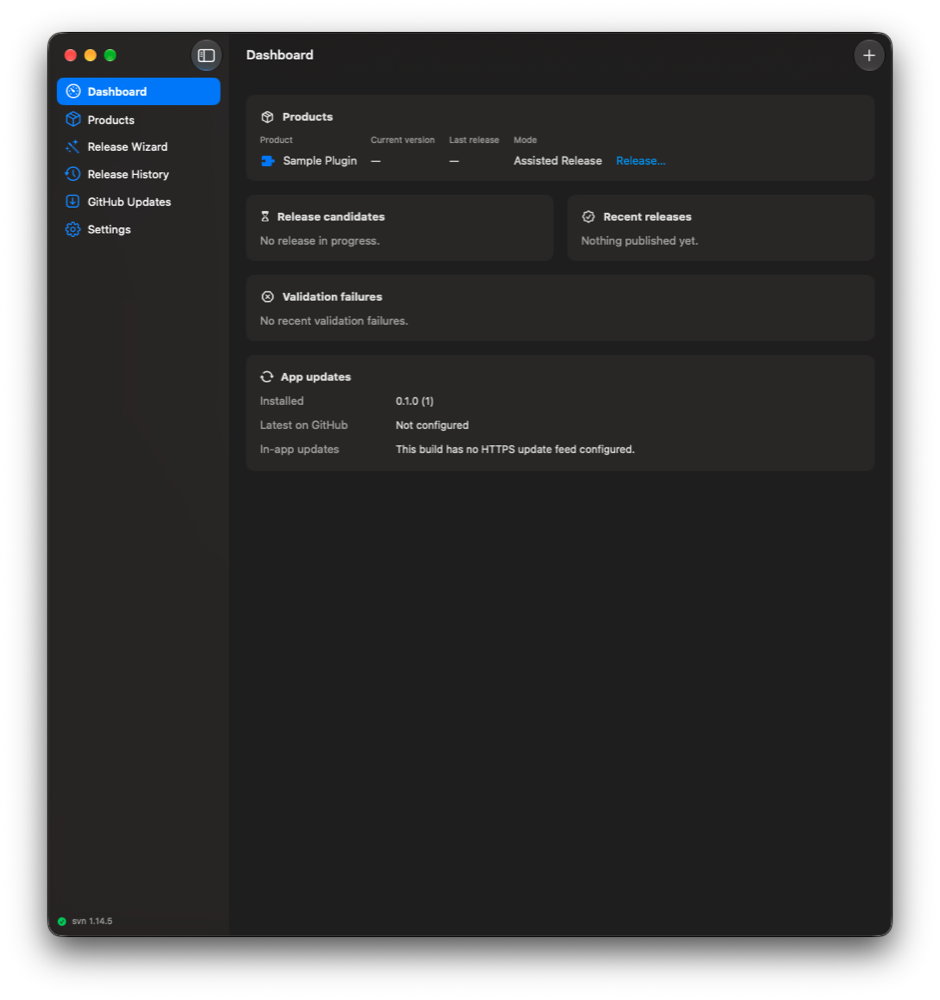
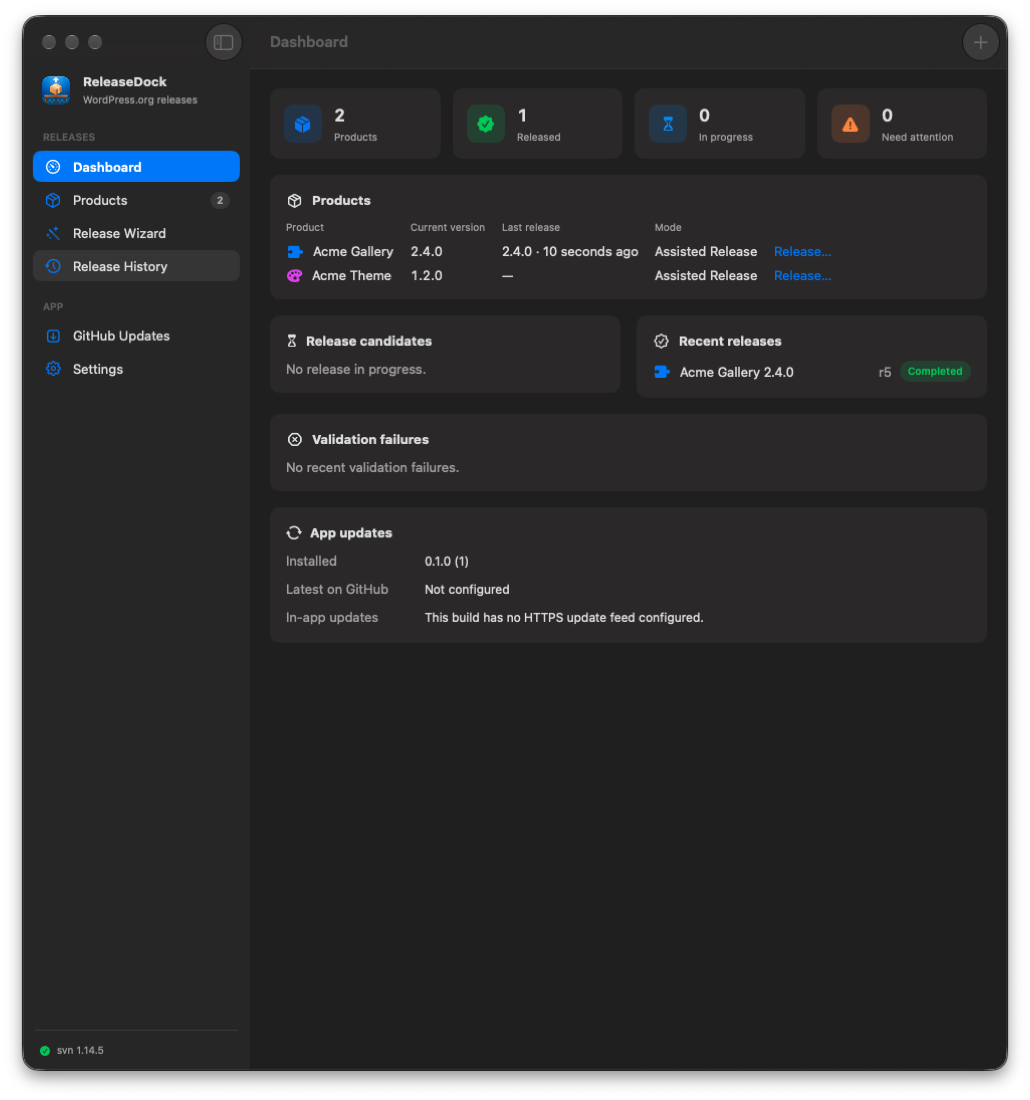
Local install script, file/directory type changes, refreshed screenshots
- scripts/install-local.sh: ad-hoc Release build for this Mac (no Hardened Runtime,
  no get-task-allow), installs to /Applications without deleting the previous copy
- Replace paths that change between file and directory via svn delete + add
- New README screenshots from an isolated demo data set (incl. a verified release)
- Debug-only launch hooks documented in TESTING.md; auto-publish limited to file:// repos

diff --git a/Packages/ReleaseDockKit/Sources/ReleaseDockCore/Release/ReleaseStrategy.swift b/Packages/ReleaseDockKit/Sources/ReleaseDockCore/Release/ReleaseStrategy.swift
@@ -48,7 +48,16 @@ enum WorkingCopyOperations {
     /// Makes `target` contain exactly the candidate files (ignoring `.svn`), then schedules
     /// unversioned paths for addition and missing paths for deletion.
     static func mirror(candidate: StagedCandidate, into target: URL, svn: SVNServicing) async throws {
+        // Paths that change between file and directory must be scheduled for deletion first;
+        // replacing them on disk alone leaves svn with an "obstructed" node.
+        let typeChanges = FileMirror.typeChanges(entries: candidate.entries, in: target)
+        if !typeChanges.isEmpty {
+            try await svn.delete(typeChanges)
+        }
         try FileMirror.mirror(source: candidate.rootURL, entries: candidate.entries, into: target)
+        if !typeChanges.isEmpty {
+            try await svn.add(typeChanges)
+        }
         try await scheduleAddsAndDeletes(in: target, svn: svn)
     }
 
@@ -130,6 +139,21 @@ enum WorkingCopyOperations {
 /// Filesystem mirroring with content comparison. Never follows symlinks and never
 /// touches `.svn` administrative directories.
 enum FileMirror {
+    /// Existing paths under `target` whose kind (file vs directory) differs in the candidate.
+    /// Only the outermost path of each change is returned.
+    static func typeChanges(entries: [PackageEntry], in target: URL) -> [URL] {
+        let fm = FileManager.default
+        var changes: [URL] = []
+        for entry in entries.sorted(by: { $0.path.count < $1.path.count }) where entry.kind != .symlink {
+            if changes.contains(where: { entry.path.hasPrefix($0.lastPathComponentPath(relativeTo: target) + "/") }) { continue }
+            let url = target.appendingPathComponent(entry.path)
+            var isDirectory: ObjCBool = false
+            guard fm.fileExists(atPath: url.path, isDirectory: &isDirectory) else { continue }
+            if isDirectory.boolValue != (entry.kind == .directory) { changes.append(url) }
+        }
+        return changes
+    }
+
     static func mirror(source: URL, entries: [PackageEntry], into target: URL) throws {
         let fm = FileManager.default
         try fm.createDirectory(at: target, withIntermediateDirectories: true)
@@ -169,5 +193,13 @@ enum FileMirror {
             if fm.fileExists(atPath: destination.path) { try fm.removeItem(at: destination) }
             try fm.copyItem(at: sourceFile, to: destination)
         }
+    }
+}
+
+private extension URL {
+    func lastPathComponentPath(relativeTo root: URL) -> String {
+        let base = root.standardizedFileURL.path + "/"
+        let full = standardizedFileURL.path
+        return full.hasPrefix(base) ? String(full.dropFirst(base.count)) : full
     }
 }

diff --git a/Packages/ReleaseDockKit/Tests/ReleaseDockCoreTests/PipelineIntegrationTests.swift b/Packages/ReleaseDockKit/Tests/ReleaseDockCoreTests/PipelineIntegrationTests.swift
@@ -398,6 +398,29 @@ final class PipelineIntegrationTests: XCTestCase {
         XCTAssertEqual(record.state, .completed)
     }
 
+    func testFileAndDirectoryTypeChanges() async throws {
+        let product = try registerPlugin()
+        let src = TempDir()
+        let root = Fixtures.makePlugin(in: src, version: "1.1.0")
+        // includes/ (a directory in 1.0.0) becomes a file; assets/js/app.js (a file) becomes a directory.
+        try FileManager.default.removeItem(at: root.appendingPathComponent("includes"))
+        try Data("<?php // now a file\n".utf8).write(to: root.appendingPathComponent("includes"))
+        try FileManager.default.removeItem(at: root.appendingPathComponent("assets/js/app.js"))
+        src.write("sample-plugin/assets/js/app.js/index.js", "console.log('dir');\n")
+
+        var record = try await pipeline.createRelease(productID: product.id, source: .folder(path: root.path))
+        record = try await pipeline.prepare(record.id)
+        XCTAssertEqual(record.state, .previewed, "\(record.errors) \(record.validation?.blockingResults ?? [])")
+        XCTAssertTrue(record.preview!.changes.contains { $0.path == "trunk/includes" && $0.kind == .replaced })
+        _ = try await pipeline.approve(record.id, kind: .user)
+        record = try await pipeline.publish(record.id)
+        XCTAssertEqual(record.state, .completed, "\(record.errors)")
+        XCTAssertEqual(record.verification?.isClean, true, "\(String(describing: record.verification))")
+        let listing = try repo.run(["list", "-R", "\(repo.url)/sample-plugin/tags/1.1.0"])
+        XCTAssertTrue(listing.contains("assets/js/app.js/index.js"))
+        XCTAssertTrue(listing.components(separatedBy: "\n").contains("includes"))
+    }
+
     // MARK: Audit regressions
 
     func testRevertBacksUpBinaryAndAddedFilesBeforeDeleting() async throws {

diff --git a/App/Sources/Views/ReleaseWizardView.swift b/App/Sources/Views/ReleaseWizardView.swift
@@ -37,7 +37,14 @@ struct ReleaseWizardView: View {
         #if DEBUG
         // UI verification hook: prepare (never publish) as soon as a package is opened.
         if ProcessInfo.processInfo.environment["RELEASEDOCK_UI_TEST_AUTOPREPARE"] == "1" {
-            Task { await wizard.prepare() }
+            Task {
+                await wizard.prepare()
+                // Screenshot fixtures only: publishing is allowed solely to local file:// test repositories.
+                if ProcessInfo.processInfo.environment["RELEASEDOCK_UI_TEST_AUTOPUBLISH"] == "1",
+                   wizard.product?.svnRepositoryURL.isFileURL == true {
+                    await wizard.approveAndPublish(automatic: false)
+                }
+            }
         }
         #endif
     }

diff --git a/App/Sources/AppModel.swift b/App/Sources/AppModel.swift
@@ -113,6 +113,10 @@ final class AppModel {
             selection = section
         }
         if ProcessInfo.processInfo.environment["RELEASEDOCK_UI_TEST_EXISTING_WC"] != nil { showAddProduct = true }
+        if let package = ProcessInfo.processInfo.environment["RELEASEDOCK_UI_TEST_OPEN"] {
+            pendingSource = URL(fileURLWithPath: package)
+            selection = .wizard
+        }
         #endif
         if settings.githubRepository.isEmpty, let bundled = Bundle.main.object(forInfoDictionaryKey: "RDGitHubRepository") as? String, !bundled.isEmpty {
             settings.githubRepository = bundled

diff --git a/TESTING.md b/TESTING.md
@@ -8,7 +8,7 @@ RELEASEDOCK_KEYCHAIN_TESTS=1 swift test --filter KeychainTests   # real login-ke
 RELEASEDOCK_PERF_TESTS=1 swift test --filter PerformanceTests     # 5,000-file package timings
 ```
 
-Current result: **119 tests, 0 failures** (the keychain and performance tests are skipped unless opted in). Integration tests need `svn` and `svnadmin` (Homebrew `subversion`); they are skipped otherwise. Version tests compare against the real `php` binary when installed.
+Current result: **121 tests, 0 failures** (the keychain and performance tests are skipped unless opted in). Integration tests need `svn` and `svnadmin` (Homebrew `subversion`); they are skipped otherwise. Version tests compare against the real `php` binary when installed.
 
 **No test uses WordPress.org or any real credentials.** Integration tests create throwaway repositories with `svnadmin create` and talk to them over `file://`.
 
@@ -60,6 +60,7 @@ Current result: **119 tests, 0 failures** (the keychain and performance tests ar
 | Retry after "verified not committed", then uncertain again with recovery offline | Flag cleared, abandon refused, recovery completes |
 | Crafted ZIP64 offsets near `Int.max` | Rejected as corrupt, no crash |
 | Add product: check out from server / adopt existing working copy (`RepositorySetupTests`) | Type, slug, name and version detected; sparse checkout; trunk URLs, non-roots, missing repos and non-empty folders rejected |
+| File ↔ directory type changes between versions | Replaced with `svn delete` + add, published and verified |
 | Theme release | `svn cp` from previous version (history verified), deletions applied, only `<version>/` changed |
 | Theme without any released version | Blocked (initial upload must use the review form) |
 
@@ -76,6 +77,21 @@ open -a build/DerivedData/Build/Products/Debug/ReleaseDock.app package.zip
 ```
 
 `RELEASEDOCK_UI_TEST_AUTOPREPARE` exists only in Debug builds and only runs preparation (never approval or publishing) when a package is opened. This was used to verify the Dashboard and the Wizard through *Previewed* against a local `file://` repository, and restart reconciliation (a release left in Previewed was cancelled and its working copy restored on relaunch).
+
+## Debug-only verification hooks
+
+Debug builds read these environment variables (none exist in Release builds):
+
+| Variable | Effect |
+|---|---|
+| `RELEASEDOCK_DATA_DIR` | Use an isolated data folder (also honoured in Release) |
+| `RELEASEDOCK_UI_TEST_SECTION` | Open a section (`dashboard`, `products`, `wizard`, `history`, `updates`, `settings`) |
+| `RELEASEDOCK_UI_TEST_OPEN` | Open a ZIP or folder in the wizard at launch |
+| `RELEASEDOCK_UI_TEST_AUTOPREPARE=1` | Run preparation when a package is opened |
+| `RELEASEDOCK_UI_TEST_AUTOPUBLISH=1` | Then approve and publish — refused unless the repository is a local `file://` URL |
+| `RELEASEDOCK_UI_TEST_EXISTING_WC` | Open Add Product → Use existing working copy with a folder |
+| `RELEASEDOCK_UI_CURSOR_TEST`, `RELEASEDOCK_UI_CURSOR_POINTS=auto` | Hover every button/row and record the cursor shown |
+| `RELEASEDOCK_UI_DUMP_VIEWS` | Write the AppKit view hierarchy to a file |
 
 ## Not covered by automated tests
 

diff --git a/README.md b/README.md
@@ -13,7 +13,7 @@
   <img alt="macOS 14+" src="https://img.shields.io/badge/macOS-14%2B-blue">
   <img alt="Swift 6" src="https://img.shields.io/badge/Swift-6-orange">
   <img alt="SwiftUI" src="https://img.shields.io/badge/UI-SwiftUI-purple">
-  <img alt="Tests" src="https://img.shields.io/badge/tests-119%20passing-brightgreen">
+  <img alt="Tests" src="https://img.shields.io/badge/tests-121%20passing-brightgreen">
 </p>
 
 ---
@@ -77,6 +77,10 @@ ReleaseDock is a native macOS app that does the whole release for you. It checks
   <img src="docs/images/dashboard.png" width="760" alt="Dashboard">
 </p>
 
+<p align="center">
+  <img src="docs/images/history.png" width="760" alt="Release History with a verified release report">
+</p>
+
 ## Requirements
 
 - macOS 14 Sonoma or later
@@ -90,7 +94,7 @@ ReleaseDock is a native macOS app that does the whole release for you. It checks
 
 Download the latest signed and notarized `ReleaseDock-<version>.zip` from the project's GitHub **Releases** page, unzip it, and move **ReleaseDock.app** to `/Applications`. Updates install from inside the app.
 
-To build it yourself, see [Building from source](#building-from-source).
+To build it yourself, see [Building from source](#building-from-source). To install your own build on this Mac, run `scripts/install-local.sh`.
 
 ## Getting started
 
@@ -139,7 +143,7 @@ When it finishes, the release report shows the committed revision, the release U
              └──► Manifest · History · Notification
 ```
 
-- All release logic lives in **ReleaseDockCore**, a Swift package with no UI code and 119 tests.
+- All release logic lives in **ReleaseDockCore**, a Swift package with no UI code and 121 tests.
 - Integration tests run the real `svn` binary against local repositories laid out like WordPress.org.
 - The SwiftUI app is a thin layer on top of the package.
 

diff --git a/IMPLEMENTATION_PLAN.md b/IMPLEMENTATION_PLAN.md
@@ -56,7 +56,6 @@ GitHub release checks (stable/beta, ETag cache, rate limits, private-repo token)
 |---|---|---|
 | First real release to WordPress.org with a test plugin | High | Validate hook messages, realm/credential caching and Release Confirmation guidance against production; use a dry run first. |
 | Developer ID signing + notarization run, Sparkle EdDSA keys, hosted appcast, end-to-end update | High | Follow RELEASE_WORKFLOW.md Part 2. |
-| XCUITest target for the main flows | Medium | Accessibility identifiers are not yet assigned. |
+| XCUITest target for the main flows | Medium | Needs Accessibility permission for the test runner; Debug-only launch hooks (TESTING.md) are used for screenshot and cursor verification meanwhile. |
 | Large-package SVN performance | Low | Inspection/extraction/staging measured at 5,000 files: 0.45 s / 1.2 s / 2.3 s (`RELEASEDOCK_PERF_TESTS=1`). `svn status`/commit at that scale not measured. |
-| Handle file↔directory type changes automatically | Low | Currently stops with an "obstructed" error. |
 | Localisation | Low | English only. |

diff --git a/CHANGELOG.md b/CHANGELOG.md
@@ -22,6 +22,9 @@ All notable changes to ReleaseDock are documented here. The format follows [Keep
 - Products → Revert Working Copy… with full file backups.
 - Add Product: check out from the SVN server or adopt an existing working copy; name, type, slug, header name, main file and current version are detected automatically.
 
+- `scripts/install-local.sh`: Release build for personal use, installed to /Applications.
+- File ↔ directory type changes between versions are handled automatically.
+
 ### Fixed
 - Working-copy revert could lose binary or newly added files; every changed file is now backed up first and the revert aborts if a backup fails.
 - A preview changed after approval could be re-approved against a stale validation report.
